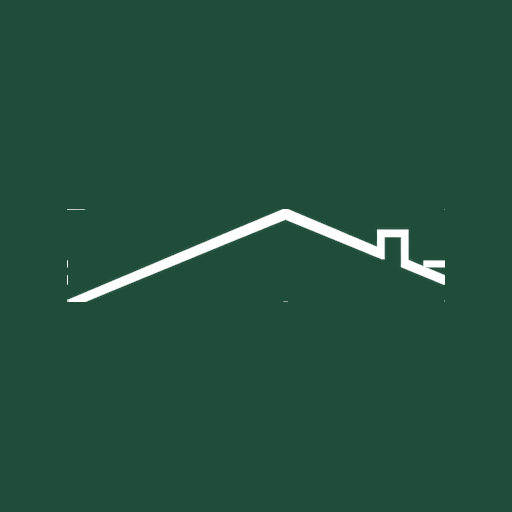
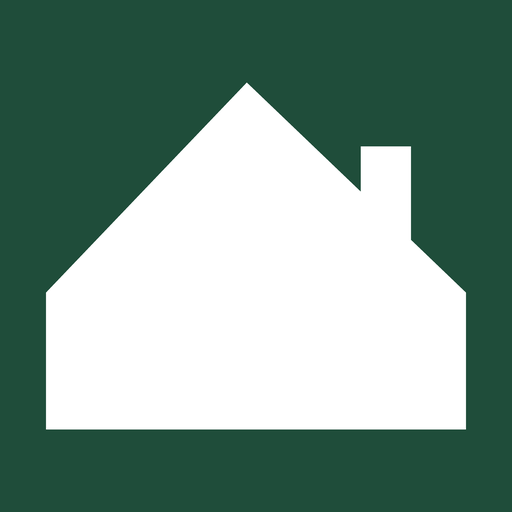
Карта з точкою, нові іконки, keep_vars
- мітка на карті в точних координатах 50.470334, 30.763822
- кнопка маршруту веде в ту саму точку
- favicon/іконки перемальовані: суцільний силует будинку, читається
  на 16px (тонкий контур зникав у вкладці)
- keep_vars, щоб деплой не стирав змінні з дашборда
- /api/lead показує імена змінних (без значень) для діагностики

Claude-Session: https://claude.ai/code/session_01WeKC9g7X7YskEunU5iJTcn

diff --git a/index.html b/index.html
@@ -966,13 +966,13 @@ html{scroll-behavior:smooth;scroll-padding-top:72px}
               вул. Мальовнича, Княжичі<br>Броварський район, Київська область
             </div>
             <iframe
-              src="https://www.google.com/maps?q=%D0%B2%D1%83%D0%BB.%20%D0%9C%D0%B0%D0%BB%D1%8C%D0%BE%D0%B2%D0%BD%D0%B8%D1%87%D0%B0%2C%20%D0%9A%D0%BD%D1%8F%D0%B6%D0%B8%D1%87%D1%96%2C%20%D0%9A%D0%B8%D1%97%D0%B2%D1%81%D1%8C%D0%BA%D0%B0%20%D0%BE%D0%B1%D0%BB%D0%B0%D1%81%D1%82%D1%8C&amp;z=15&amp;output=embed"
+              src="https://www.google.com/maps?q=50.470334,30.763822&amp;z=16&amp;hl=uk&amp;output=embed"
               title="Карта: вул. Мальовнича, Княжичі"
               loading="lazy" referrerpolicy="no-referrer-when-downgrade"
               allowfullscreen></iframe>
           </div>
           <div class="loc-actions">
-            <a class="btn btn-ghost" href="https://maps.app.goo.gl/EVB56Fxj2VoXRmxt7" target="_blank" rel="noopener">Прокласти маршрут у Google Maps</a>
+            <a class="btn btn-ghost" href="https://www.google.com/maps/dir/?api=1&amp;destination=50.470334%2C30.763822" target="_blank" rel="noopener">Прокласти маршрут у Google Maps</a>
           </div>
         </div>
       </div>

diff --git a/lib/lead.js b/lib/lead.js
@@ -34,7 +34,14 @@ const tg = (env, method, payload) =>
  * Токен не розкривається — лише true/false.
  */
 export async function health(request, env) {
-  const out = { ok: true, fn: "lead", token_set: Boolean(env.BOT_TOKEN), chat_id: chatOf(env) };
+  const out = {
+    ok: true,
+    fn: "lead",
+    token_set: Boolean(env.BOT_TOKEN),
+    chat_id: chatOf(env),
+    // лише імена змінних, щоб видно було описку в назві. Значень тут немає.
+    bindings: Object.keys(env).sort()
+  };
 
   if (new URL(request.url).searchParams.get("check") === "1" && env.BOT_TOKEN) {
     try {
